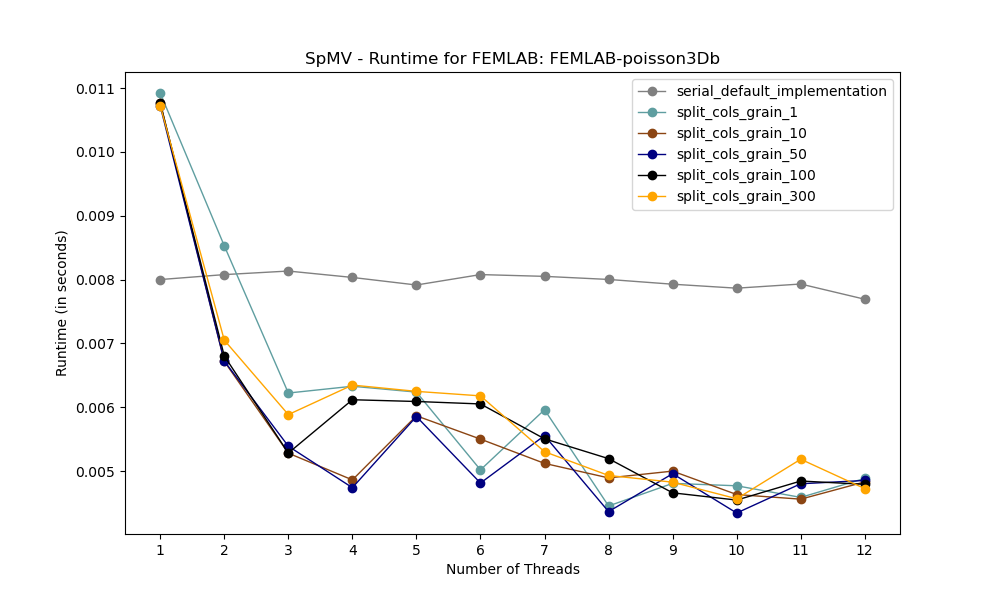
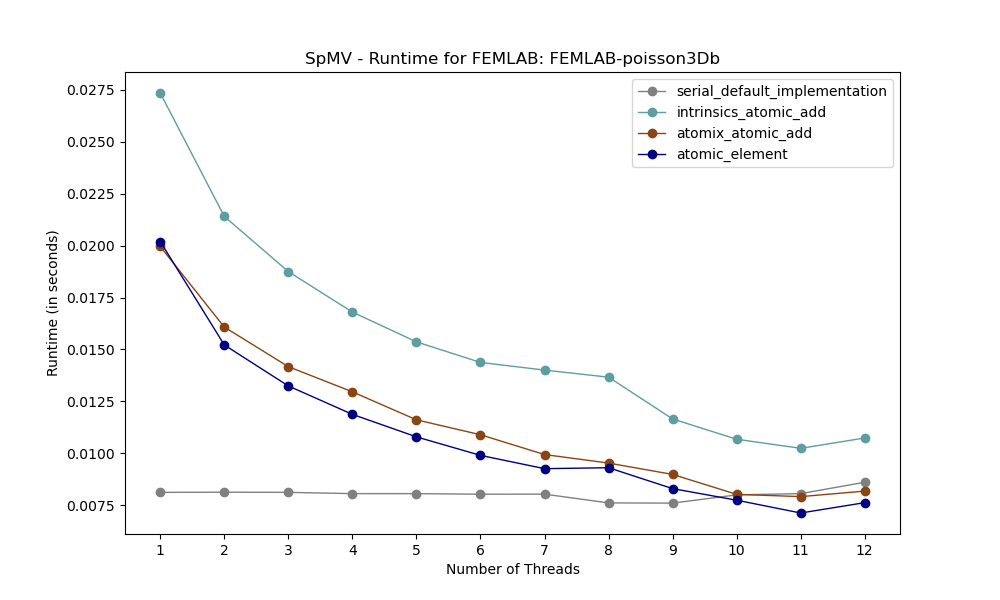
Add split rows

diff --git a/parallel/spmv/graph.py b/parallel/spmv/graph.py
@@ -13,12 +13,12 @@ NTHREADS = [i + 1 for i in range(12)]
 DEFAULT_METHOD = "serial_default_implementation"
 METHODS = [
     DEFAULT_METHOD,
-    "intrinsics_atomic_add",
-    "atomix_atomic_add",
+    "atomic_element",
     "split_cols",
     "split_cols_grain_50",
     "split_nonzeros",
     "split_nonzeros_grain_500",
+    "split_rows",
 ]
 
 DATASETS = [
